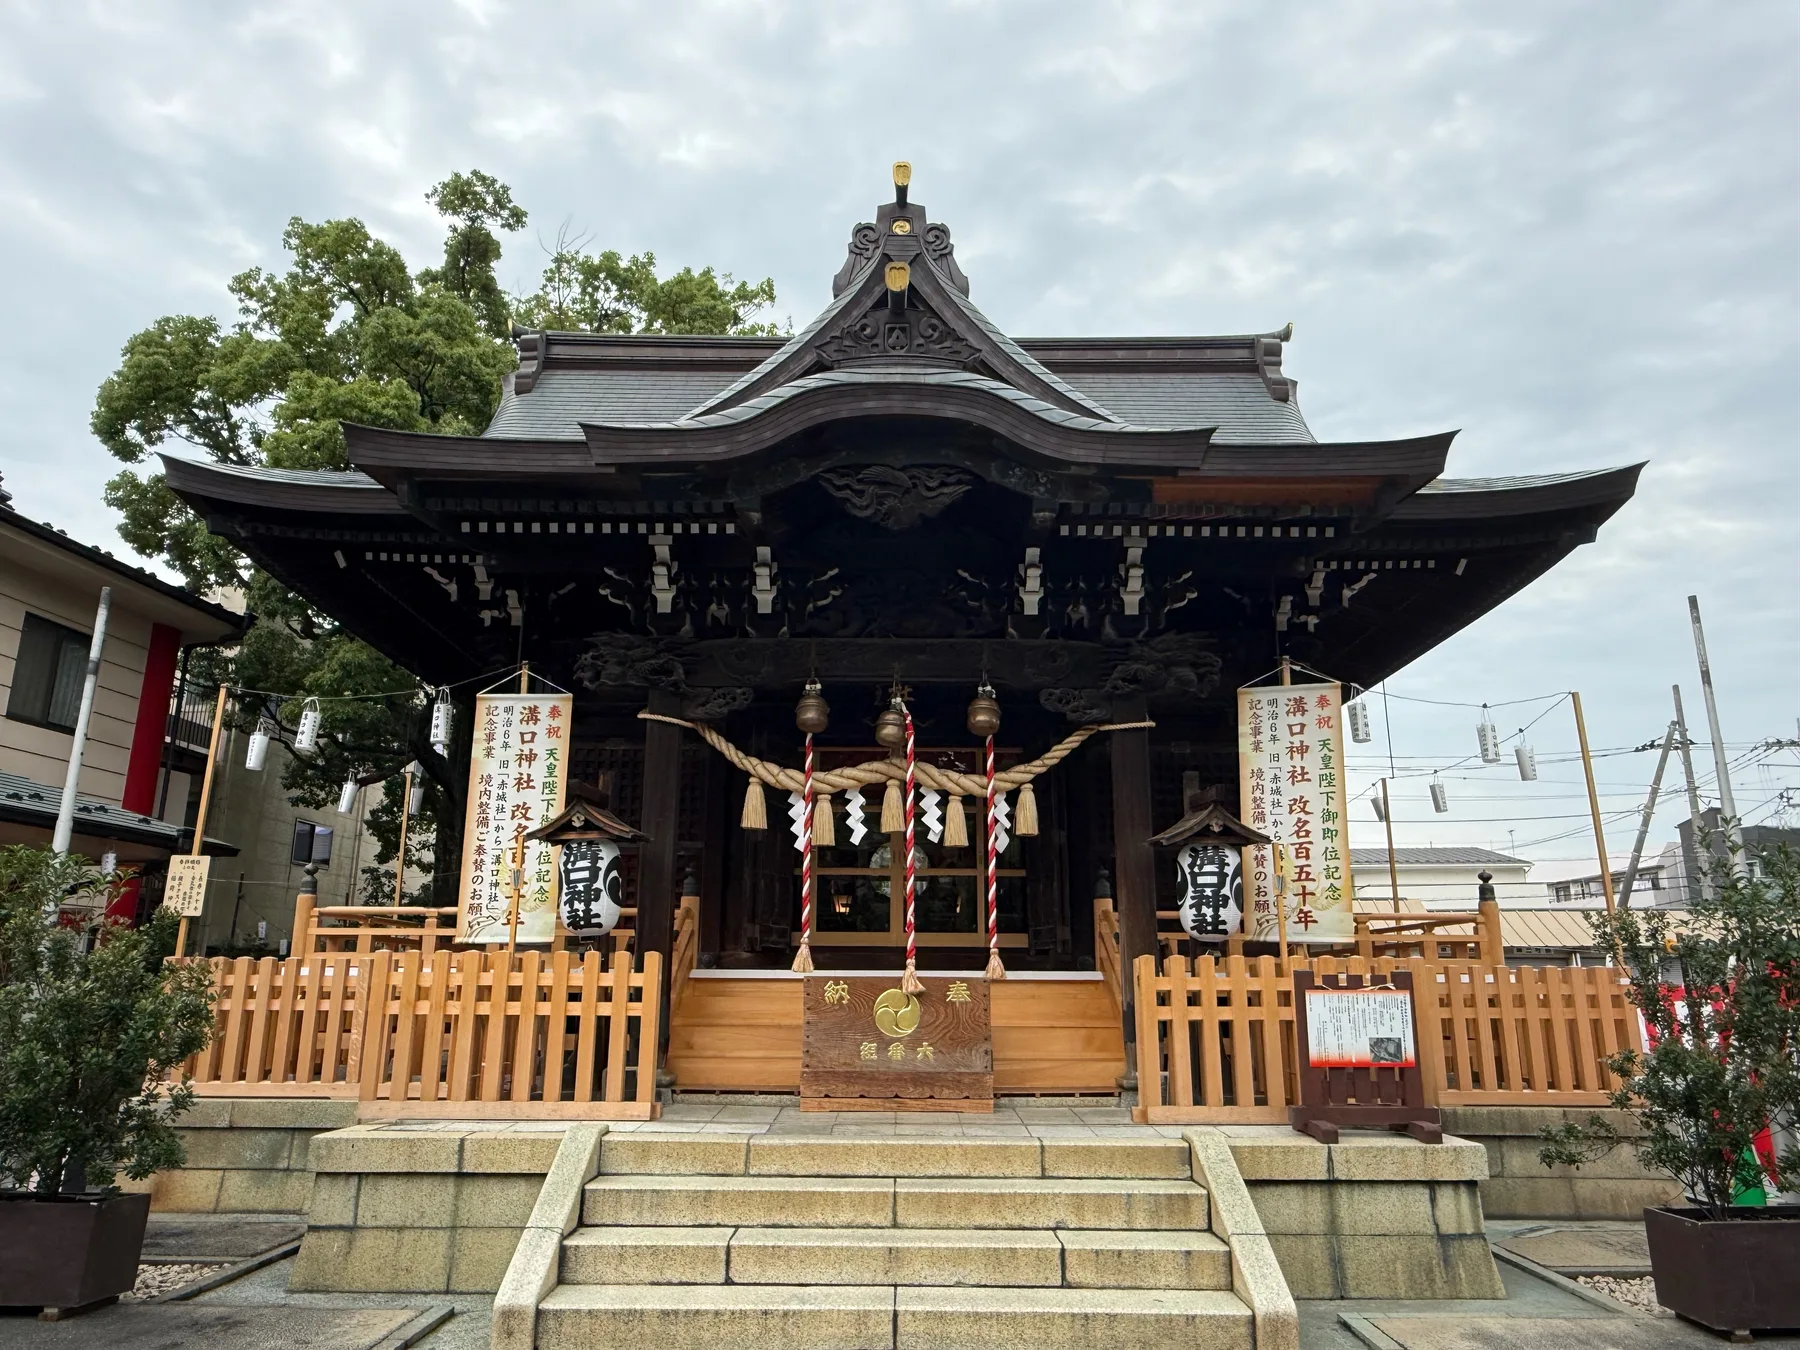
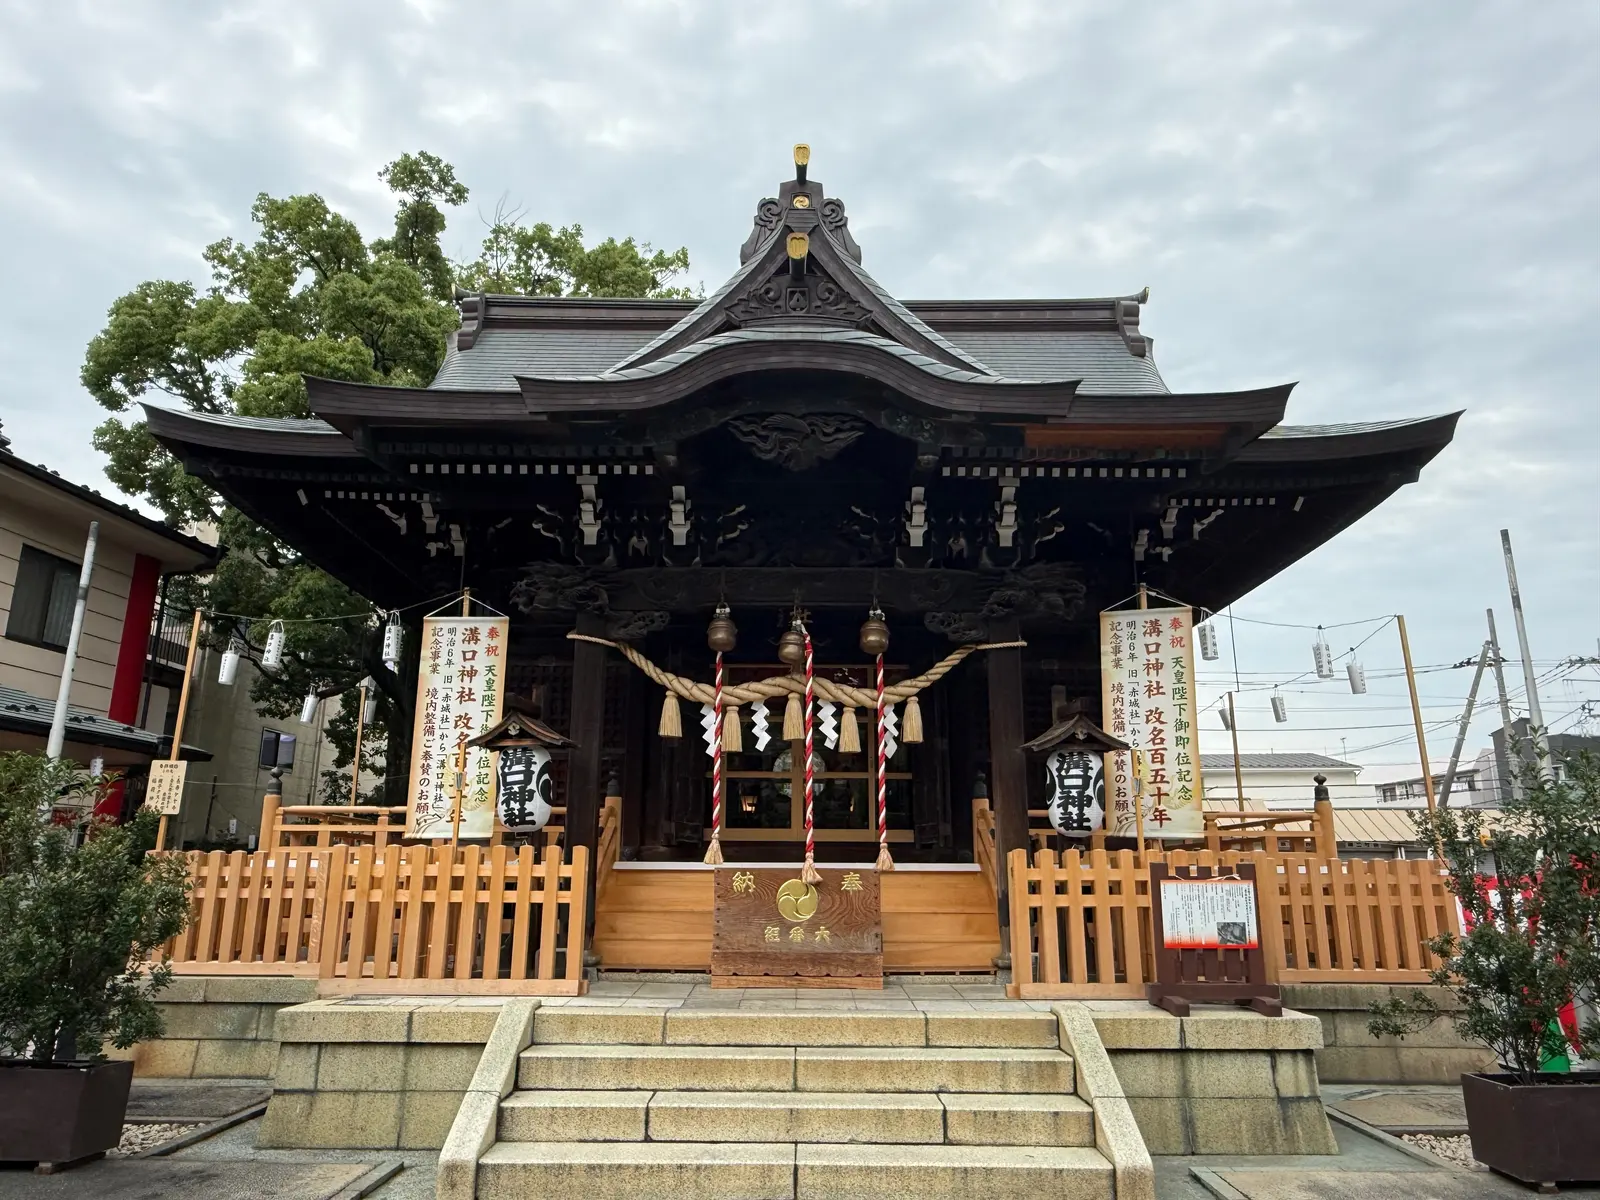
Add files via upload

diff --git a/hero-preview.html b/hero-preview.html
@@ -13,7 +13,7 @@
        現在は AMAGI-PC-DESIGN-002 による仮設定（裁可待ち）。
        行事終了後は default へ戻すこと。
      ========================================================== -->
-<html lang="ja" data-build="MIZONO-M029-HERO-01">
+<html lang="ja" data-build="MIZONO-M030-HERO-02">
 <head>
   <meta charset="UTF-8">
   <meta name="viewport" content="width=device-width, initial-scale=1, viewport-fit=cover">
@@ -268,7 +268,7 @@
 
           <!-- 7月・高津区民祭テーマの季節見出し（仮文言：北条言葉検分隊の検分待ち）
                data-theme="kuminsai" のときだけ表示される -->
-          <div class="theme-only--kuminsai">
+          <div class="theme-only--kuminsai" hidden aria-hidden="true">
             <p class="hero__copy">高津の夏、神輿がつなぐ。</p>
             <p class="hero__sub">地域とともに受け継がれる、祈りと祭りの一日。</p>
           </div>
@@ -281,7 +281,7 @@
             <a class="button button--ghost" href="access.html">アクセス</a>
           </div>
           <p class="hp-skip theme-hide--kuminsai"><a href="#visit-info">参拝のご案内へ</a></p>
-          <div class="hero__actions theme-only--kuminsai">
+          <div class="hero__actions theme-only--kuminsai" hidden aria-hidden="true">
             <a class="button button--primary" href="#prayer">御祈祷のご案内</a>
             <a class="button button--ghost" href="#annual-events">年間行事を見る</a>
           </div>
@@ -390,8 +390,7 @@
         </ul>
 
         <!-- お知らせが0件の場合に表示される案内（JSが自動制御） -->
-        <p id="news-empty" class="news-empty" hidden>現在、新しいお知らせはありません。</p>
-        <noscript><p class="news-empty">現在、新しいお知らせはありません。</p></noscript>
+        <p id="news-empty" class="news-empty">現在、新しいお知らせはありません。</p>
 
         <!-- お知らせ一覧ページは第2回以降に作成予定
         <p style="margin-top:1rem;"><a href="news.html">お知らせ一覧を見る</a></p>